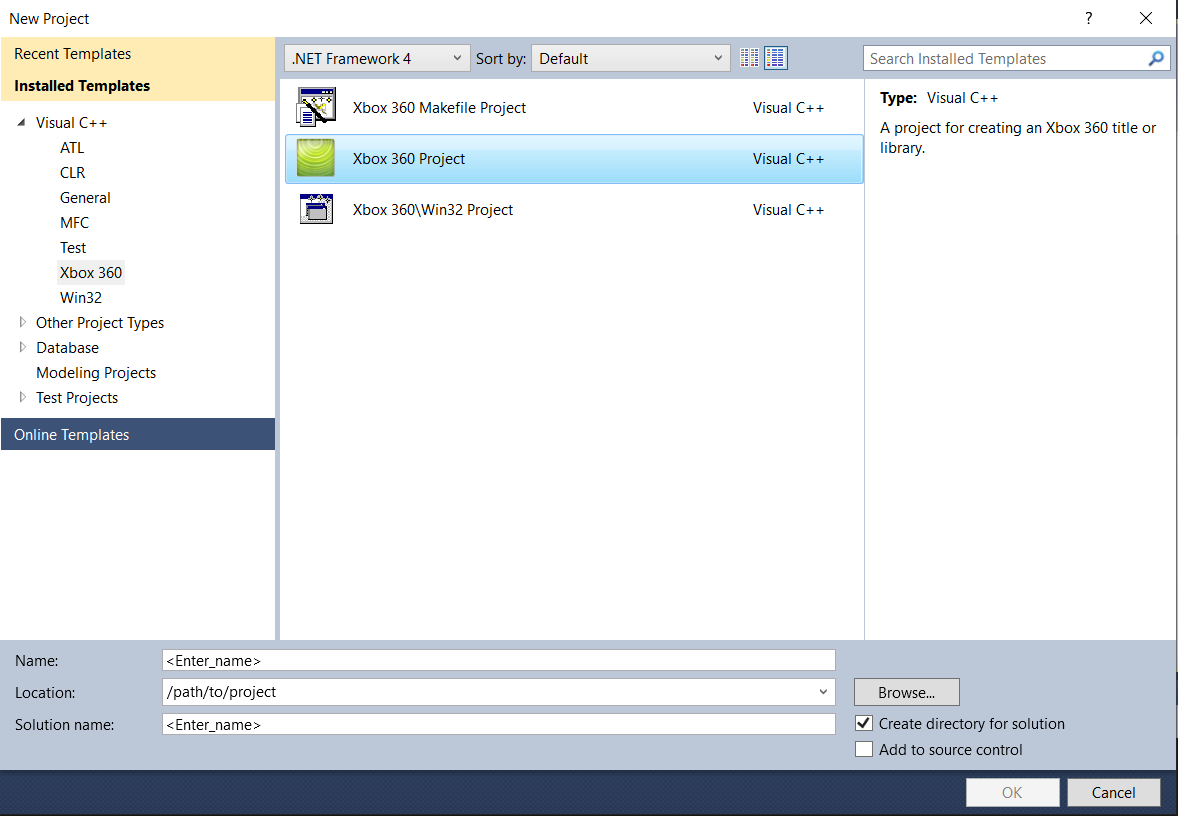
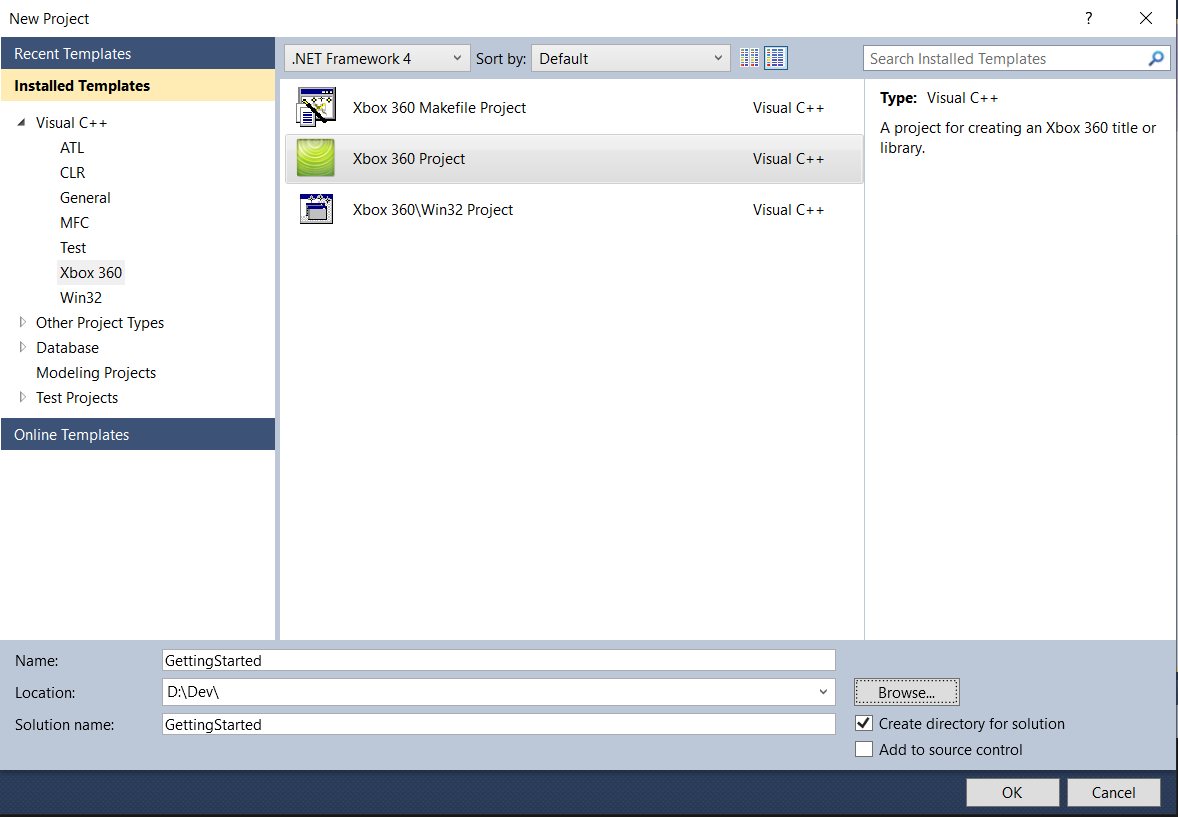
Made the hello world section of the getting started chapter

diff --git a/getting-started.md b/getting-started.md
@@ -8,11 +8,12 @@ Open Visual Studio and create a new Xbox 360 project.
 
 <img src="./Resources/Screenshots/vs-create-project.png" alt="Visual Studio Xbox 360 Project"/>
 
-**TODO: Add paragraph and screenshot about the project type**
+On the next prompt, click `Next` then click `Finish`.
 
 Before writing any code, you'll need to set up a few things in Visual Studio to be able to compile and deploy to your console successfully. In the `Solution Explorer`, right-click on your project and click on `Properties` and make sure you are in the `Configuration Properties` tab (you should be by default).
 
-- Go to `C/C++ > General` and set your application type is to Dynamic Library (DLL).
+- Go to `General` and set your application type is to Dynamic Library (.xex).
+-  **TODO: only keep Release_LTCG config**
 - Some properties about the XEX file can be set with an XML configuration file. Create an XML file that looks like this:
     ```XML
     <?xml version="1.0"?>
@@ -32,4 +33,67 @@ Before writing any code, you'll need to set up a few things in Visual Studio to 
     </xex>
     ```
     The base address doesn't need to be `0x91D00000` but the it must not conflict with the base address of any other loaded plugin and must be greater `0x82000000` + the size of the application currently running. I recommended setting the base address as anything greater than `0x90000000`.
-    Now set this file as your config file in `C/C++ > Configuration > File` (TO CHANGE!!!)
+    Now set this file as your config file in `Xbox 360 Image Conversion > General > Configuration File`.
+- **TODO: Console deployment settings**
+
+## Hello World!
+Once your project is set up, place everything from your main cpp file with that:
+```C++
+#include "stdafx.h"
+
+BOOL WINAPI DllMain(HINSTANCE hinstDLL, DWORD fdwReason, LPVOID lpReserved)
+{
+    switch (fdwReason) 
+    {
+        case DLL_PROCESS_ATTACH:
+            break;
+        case DLL_PROCESS_DETACH:
+            break;
+    }
+    return TRUE;
+}
+```
+If you're not too familiar with the Windows eco-system, Windows uses a non-standard naming convention for their entry points and the entry point of a DLL must have the following signature:
+```C++
+BOOL __stdcall DllMain(HINSTANCE hinstDLL, DWORD fdwReason, LPVOID lpReserved);
+```
+
+<br/>
+
+We are going to display a notification with the text "Hello World!" when our DLL is loaded. For that, we are going to need to extract the `XNotifyQueueUI` function from `xam.xex`. Add that before your `DllMain` function:
+```C++
+DWORD ResolveFunction(const char* moduleName, DWORD ordinal)
+{
+    HMODULE mHandle = GetModuleHandle(moduleName);
+
+    return (mHandle == NULL) ? NULL : (DWORD)GetProcAddress(mHandle, (LPCSTR)ordinal);
+}
+
+void (*XNotifyQueueUI)(
+  int exnq,
+  DWORD dwUserIndex,
+  ULONGLONG qwAreas,
+  PWCHAR displayText,
+  PVOID contextData
+) = (void(*)(int, DWORD, ULONGLONG, PWCHAR, PVOID))ResolveFunction("xam.xex", 656);
+```
+
+<br/>
+
+We can now call `XNotifyQueueUI` when our DLL gets loaded like so:
+```C++
+switch (fdwReason) 
+{
+    case DLL_PROCESS_ATTACH:
+        XNotifyQueueUI(0, 0, XNOTIFY_SYSTEM, L"Hello World!", 0);
+        break;
+    case DLL_PROCESS_DETACH:
+        break;
+}
+```
+
+<br/>
+
+The result should look like this:
+
+**TODO: Add screenshot of XNotify**
